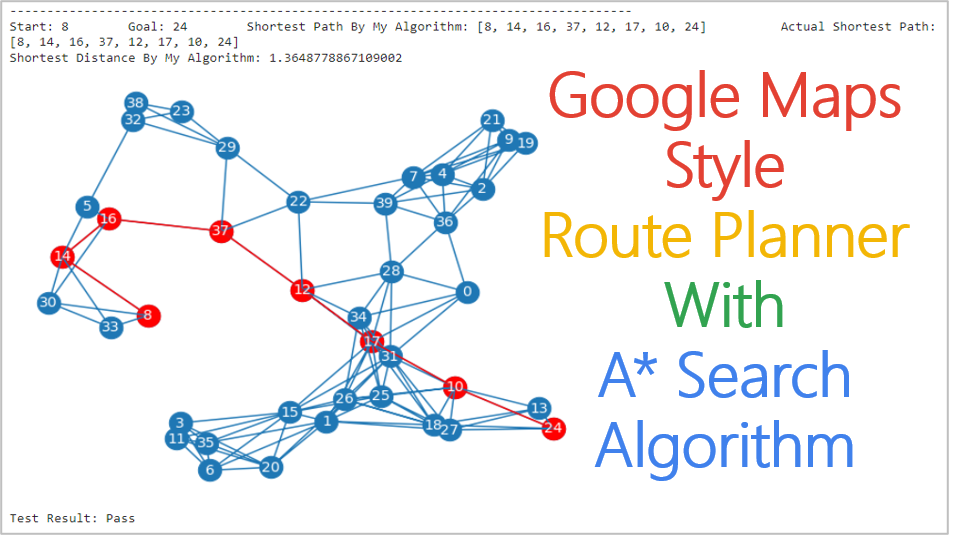
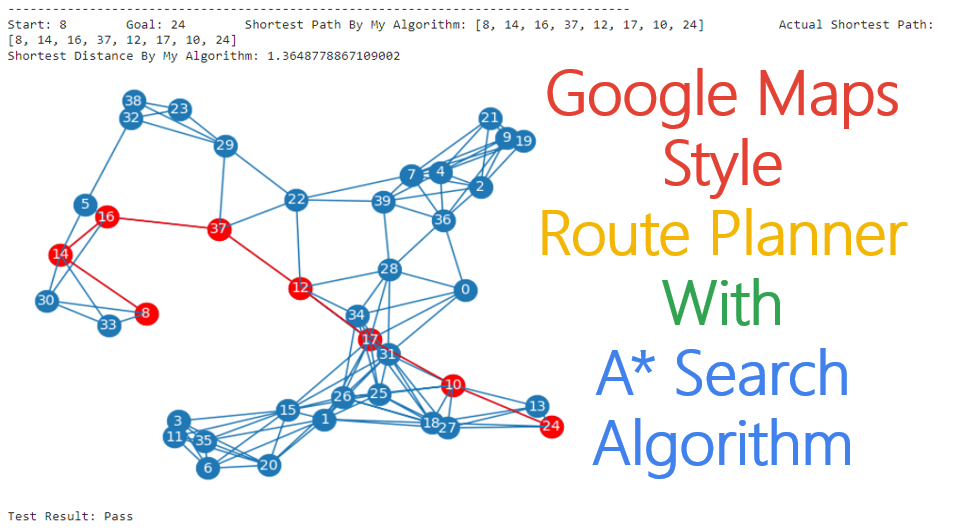
light mode: 4 python projects and 1 HTML project added

diff --git a/light-mode/projects/python.html b/light-mode/projects/python.html
@@ -88,6 +88,49 @@
 
 
 
+										<!-- Book Search Engine -->
+										<div id="book-search-engine" class="col-6 col-12-small" style='margin-bottom:70px'>
+											<div class="image-container">
+												<a href="https://github.com/MaxineXiong/Book-Search-Engine.git" target='_blank'>
+													<span class="image fit"><img src="../assets/images/book-search-engine.png" alt="" /></span>
+												</a>
+											</div>
+											<!-- project header -->
+											<h3 style='height:1.5em'>
+												<a href="https://github.com/MaxineXiong/Book-Search-Engine.git" target='_blank'>
+													Book Search Engine
+												</a>
+											</h3>
+											<!-- skill tags -->
+											<ul class="actions" >
+												<li><a href="https://docs.python.org/3/library/tkinter.html" target="_blank"
+															class="button primary small" title='Click to learn more'>Tkinter GUI</a></li>
+												<li><a href="https://customtkinter.tomschimansky.com/" target="_blank"
+															class="button primary small" title='Click to learn more'>CustomTkinter</a></li>
+												<li><a href="https://docs.python.org/3/library/sqlite3.html" target="_blank"
+															class="button primary small" title='Click to learn more'>SQLite3</a></li>
+												<li><a href="https://sqlite.org/" target="_blank"
+															class="button primary small" title='Click to learn more'>SQLite Database</a></li>
+												<li><a href="https://pandas.pydata.org/" target="_blank" class="button primary small"
+															title='Click to learn more'>Pandas</a></li>
+												<li><a href="#book-search-engine" class="button primary small" style='background-color:#F56a6a'>Desktop App</a></li>
+												<li><a href="#" class="button primary skill small" style='background-color:#907f85'>Python</a></li>
+											</ul>
+											<!-- project description -->
+											<p style='height:21em'>The Book Search Engine is a desktop application developed in Python using
+												the Tkinter and CustomTkinter library. It enables users to interact with a local SQLite database
+												to manage and query book information effectively, allowing users to look up book information with
+												ease, and to add, update, delete book records in the local SQLite database. This application is
+												particularly useful for librarians, bookstore owners, or any book enthusiast who needs to manage
+												a collection of books.</p>
+											<!-- view button -->
+											<div class="button-container">
+												<a href="https://github.com/MaxineXiong/Book-Search-Engine.git" target='_blank' class="button big">View</a>
+											</div>
+										</div>
+
+
+
 										<!-- ChatGPT Tkinter Desktop App project -->
 										<div id="gpt-desktop" class="col-6 col-12-small" style='margin-bottom:70px'>
 											<div class="image-container">
@@ -170,11 +213,56 @@
 
 
 
+										<!-- Geocoding Web Service -->
+										<div id="geocoding-web" class="col-6 col-12-small" style='margin-bottom:70px'>
+											<div class="image-container">
+												<a href="https://github.com/MaxineXiong/Geocoding-Web-Service.git" target='_blank'>
+													<span class="image fit"><img src="../assets/images/geocoding-web-service.png" alt="" /></span>
+												</a>
+											</div>
+											<!-- project header -->
+											<h3 style='height:1.5em'>
+												<a href="https://github.com/MaxineXiong/Geocoding-Web-Service.git" target='_blank'>
+													Geocoding Web Service
+												</a>
+											</h3>
+											<!-- skill tags -->
+											<ul class="actions" >
+												<li><a href="https://flask.palletsprojects.com/en/2.3.x/" target="_blank" class="button primary small"
+															title='Click to learn more'>Flask</a></li>
+												<li><a href="https://python-visualization.github.io/folium/latest/" class="button primary small"
+															target="_blank" title='Click to learn more'>Folium Maps</a></li>
+												<li><a href="https://pandas.pydata.org/" target="_blank" class="button primary small"
+															title='Click to learn more'>Pandas</a></li>
+												<li><a href="https://html.spec.whatwg.org/" class="button primary small" target="_blank"
+															title='Click to learn more'>HTML5</a></li>
+												<li><a href="https://www.css3.com/" target="_blank" class="button primary small"
+															title='Click to learn more'>CSS3</a></li>
+												<li><a href="#geocoding-web" class="button primary small" style='background-color:#F56a6a'>Geocoding</a></li>
+												<li><a href="./html-css.html" class="button primary skill small"
+															title='Click to explore all web application projects'>Web App</a></li>
+												<li><a href="#" class="button primary skill small" style='background-color:#907f85'>Python</a></li>
+											</ul>
+											<!-- project description -->
+											<p style='height:21em'>SuperGeocoder is an online geocoding service built in Python with Flask that
+												effortlessly transforms all address data within user-uploaded files into precise latitude and
+												longitude coordinates. Upon uploading a file, users can instantly preview the output table on
+												the website or opt to download the file in its converted format. Additionally, the integrated
+												mapping service enhances the user experience by enabling them to visualise the exact location
+												of each address on a map, offering deeper insights into each site.</p>
+											<!-- view button -->
+											<div class="button-container">
+												<a href="https://github.com/MaxineXiong/Geocoding-Web-Service.git" target='_blank' class="button big">View</a>
+											</div>
+										</div>
+
+
+
 										<!-- Google Maps Style Route Planner with A* Search Algorithm -->
 										<div id="a-star-algo" class="col-6 col-12-small" style='margin-bottom:70px'>
 											<div class="image-container">
 												<a href="https://github.com/MaxineXiong/Google-Maps-Style-Route-Planner.git" target='_blank'>
-													<span class="image fit"><img src="../assets/images/algo.png" alt="" /></span>
+													<span class="image fit"><img src="../assets/images/algo.png" style="border: 1px solid #7f7f7f;" alt="" /></span>
 												</a>
 											</div>
 											<!-- project header -->
@@ -290,6 +378,51 @@
 
 
 
+										<!-- Music Events Web Scraper -->
+										<div id="music-events-web-scraper" class="col-6 col-12-small" style='margin-bottom:70px'>
+											<div class="image-container">
+												<a href="https://github.com/MaxineXiong/Music-Events-Web-Scraper.git" target='_blank'>
+													<span class="image fit"><img src="../assets/images/music-events-web-scraper.png" style="border: 1px solid #7f7f7f;" alt="" /></span>
+												</a>
+											</div>
+											<!-- project header -->
+											<h3 style='height:1.5em'>
+												<a href="https://github.com/MaxineXiong/Music-Events-Web-Scraper.git" target='_blank'>
+													Music Events Web Scraper
+												</a>
+											</h3>
+											<!-- skill tags -->
+											<ul class="actions" >
+												<li><a href="https://beautiful-soup-4.readthedocs.io/en/latest/" target="_blank" class="button primary small"
+															title='Click to learn more'>BeautifulSoup4</a></li>
+												<li><a href="https://www.psycopg.org" target="_blank" class="button primary small"
+															title='Click to learn more'>Psycopg2</a></li>
+												<li><a href="https://www.postgresql.org/" target="_blank" class="button primary small"
+															title='Click to learn more'>PostgreSQL Database</a></li>
+												<li><a href="https://pandas.pydata.org/" target="_blank" class="button primary small"
+															title='Click to learn more'>Pandas</a></li>
+												<li><a href="https://www.eventbrite.com.au/" target="_blank" class="button primary small"
+															title='Click to learn more'>Eventbrite</a></li>
+												<li><a href="#music-events-web-scraper" class="button primary small" style='background-color:#F56a6a'>Email Sender</a></li>
+												<li><a href="#music-events-web-scraper" class="button primary small" style='background-color:#F56a6a'>Web Scraping</a></li>
+												<li><a href="#" class="button primary skill small" style='background-color:#907f85'>Python</a></li>
+											</ul>
+											<!-- project description -->
+											<p style='height:21em'>This project is a web scraping program engineered to
+												extract detailed information about music events from Eventbrite, a popular event management
+												and ticketing platform. Users can specify a country and a city to gather attribute data on
+												upcoming music events, including event names, venues, addresses, dates and times, durations,
+												prices, booking statuses, and web URLs. The collected data is subsequently saved in a CSV file,
+												which is then attached to a marketing email sent to designated recipients. Additionally,
+												the data is transferred to a local PostgreSQL database for efficient storage and management.</p>
+											<!-- view button -->
+											<div class="button-container">
+												<a href="https://github.com/MaxineXiong/Music-Events-Web-Scraper.git" target='_blank' class="button big">View</a>
+											</div>
+										</div>
+
+
+
 										<!-- OpenAI API Web Applications project -->
 										<div id="openai-webapps" class="col-6 col-12-small" style='margin-bottom:70px'>
 											<div class="image-container">
@@ -337,6 +470,47 @@
 										</div>
 
 
+
+										<!-- WebCam Monitoring App with Email Alerts -->
+										<div id="webcam-monitoring" class="col-6 col-12-small" style='margin-bottom:70px'>
+											<div class="image-container">
+												<a href="https://github.com/MaxineXiong/WebCam-Monitoring-App-with-Email-Alerts.git" target='_blank'>
+													<span class="image fit"><img src="../assets/images/webcam-monitoring.png" alt="" /></span>
+												</a>
+											</div>
+											<!-- project header -->
+											<h3 style='height:1.5em'>
+												<a href="https://github.com/MaxineXiong/WebCam-Monitoring-App-with-Email-Alerts.git" target='_blank'>
+													WebCam Monitoring App with Email Alerts
+												</a>
+											</h3>
+											<!-- skill tags -->
+											<ul class="actions">
+												<li><a href="https://opencv.org/" target="_blank" class="button primary small"
+															title='Click to learn more'>OpenCV</a></li>
+												<li><a href="https://docs.python.org/3/library/threading.html" target="_blank" class="button primary small"
+															title='Click to learn more'>Threading</a></li>
+												<li><a href="#webcam-monitoring" class="button primary small" style='background-color:#F56a6a'>Email Sender</a></li>
+												<li><a href="#webcam-monitoring" class="button primary small" style='background-color:#F56a6a'>WebCam Monitor</a></li>
+												<li><a href="#webcam-monitoring" class="button primary small" style='background-color:#F56a6a'>Motion Detection</a></li>
+												<li><a href="#" class="button primary skill small" style='background-color:#907f85'>Python</a></li>
+											</ul>
+											<!-- project description -->
+											<p style='height:21em'>This project is designed to enhance security
+												by monitoring specific areas and detecting unauthorized or prolonged presence. This application
+												utilizes webcam technology to continuously monitor a designated area, alerting users via email
+												when any object enters and remains in the area beyond a specified duration (default is 2 minutes).
+												This application is ideal for settings that require vigilant security measures such as front and
+												back yards of residential houses, doorway of retail shops, or any sensitive areas needing close
+												monitoring.</p>
+											<!-- view button -->
+											<div class="button-container">
+												<a href="https://github.com/MaxineXiong/WebCam-Monitoring-App-with-Email-Alerts.git" target='_blank' class="button big">View</a>
+											</div>
+										</div>
+
+
+
 									</div>
 
 								</section>
@@ -369,12 +543,16 @@
 										<ul>
 											<!-- List projects in alphabetical order -->
 											<li><a href="#neat-flappy-bird">AI Plays Flappy Bird</a></li>
+											<li><a href="#book-search-engine">Book Search Engine</a></li>
 											<li><a href="#gpt-desktop">ChatGPT Tkinter Desktop App</a></li>
 											<li><a href="#spark-marvel">Degrees of Separation with Breadth-first Search in PySpark</a></li>
+											<li><a href="#geocoding-web">Geocoding Web Service</a></li>
 											<li><a href="#a-star-algo">Google Maps Style Route Planner with A* Search Algorithm</a></li>
 											<li><a href="#imageai-flask">ImageAI Computer Vision Flask Apps</a></li>
 											<li><a href="#spark-movie">Item-based Collaborative Filtering in PySpark</a></li>
+											<li><a href="#music-events-web-scraper">Music Events Web Scraper</a></li>
 											<li><a href="#openai-webapps">OpenAI API Web Applications</a></li>
+											<li><a href="#webcam-monitoring">WebCam Monitoring App with Email Alerts</a></li>
 										</ul>
 									</ul>
 								</nav>

diff --git a/light-mode/projects/html-css.html b/light-mode/projects/html-css.html
@@ -129,6 +129,52 @@
 										</div>
 
 
+
+										<!-- Geocoding Web Service -->
+										<div id="geocoding-web" class="col-6 col-12-small" style='margin-bottom:70px'>
+											<div class="image-container">
+												<a href="https://github.com/MaxineXiong/Geocoding-Web-Service.git" target='_blank'>
+													<span class="image fit"><img src="../assets/images/geocoding-web-service.png" alt="" /></span>
+												</a>
+											</div>
+											<!-- project header -->
+											<h3 style='height:1.5em'>
+												<a href="https://github.com/MaxineXiong/Geocoding-Web-Service.git" target='_blank'>
+													Geocoding Web Service
+												</a>
+											</h3>
+											<!-- skill tags -->
+											<ul class="actions" >
+												<li><a href="https://flask.palletsprojects.com/en/2.3.x/" target="_blank" class="button primary small"
+															title='Click to learn more'>Flask</a></li>
+												<li><a href="https://python-visualization.github.io/folium/latest/" class="button primary small"
+															target="_blank" title='Click to learn more'>Folium Maps</a></li>
+												<li><a href="https://pandas.pydata.org/" target="_blank" class="button primary small"
+															title='Click to learn more'>Pandas</a></li>
+												<li><a href="https://html.spec.whatwg.org/" class="button primary small" target="_blank"
+															title='Click to learn more'>HTML5</a></li>
+												<li><a href="https://www.css3.com/" target="_blank" class="button primary small"
+															title='Click to learn more'>CSS3</a></li>
+												<li><a href="#geocoding-web" class="button primary small" style='background-color:#F56a6a'>Geocoding</a></li>
+												<li><a href="#" class="button primary skill small" style='background-color:#907f85'>Web App</a></li>
+												<li><a href="./python.html" class="button primary skill small"
+															title = 'Click to explore all projects involving Python'>Python</a></li>
+											</ul>
+											<!-- project description -->
+											<p style='height:21em'>SuperGeocoder is an online geocoding service built in Python with Flask that
+												effortlessly transforms all address data within user-uploaded files into precise latitude and
+												longitude coordinates. Upon uploading a file, users can instantly preview the output table on
+												the website or opt to download the file in its converted format. Additionally, the integrated
+												mapping service enhances the user experience by enabling them to visualise the exact location
+												of each address on a map, offering deeper insights into each site.</p>
+											<!-- view button -->
+											<div class="button-container">
+												<a href="https://github.com/MaxineXiong/Geocoding-Web-Service.git" target='_blank' class="button big">View</a>
+											</div>
+										</div>
+
+
+
 									</div>
 								</section>
 						</div>
@@ -160,6 +206,7 @@
 										<ul>
 											<li><a href="#personal-web">Maxine's Tech Gallery</a></li>
 											<li><a href="#imageai-flask">ImageAI Computer Vision Flask Apps</a></li>
+											<li><a href="#geocoding-web">Geocoding Web Service</a></li>
 										</ul>
 									</ul>
 								</nav>
